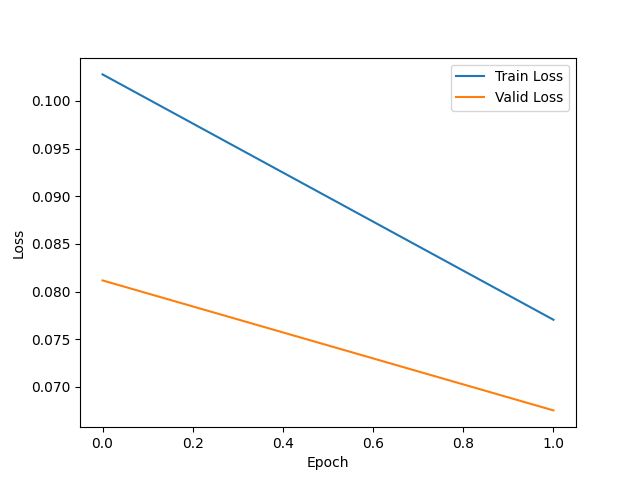
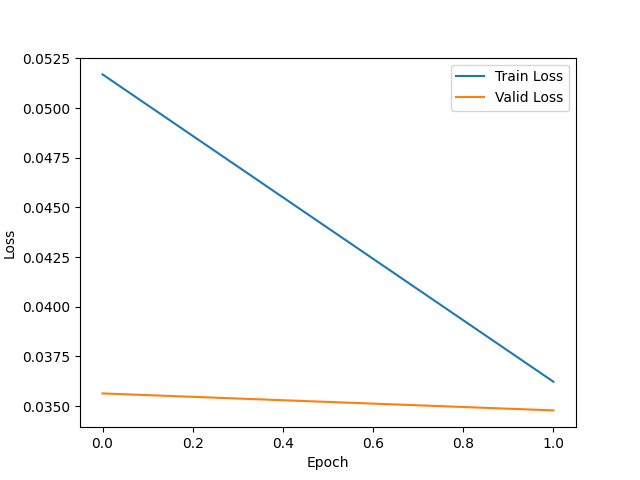
update 20240808

diff --git a/utils/learning/.ipynb_checkpoints/train_part-checkpoint.py b/utils/learning/.ipynb_checkpoints/train_part-checkpoint.py
@@ -16,8 +16,8 @@ from utils.data.load_data import create_data_loaders
 from utils.common.utils import save_reconstructions, ssim_loss
 from utils.common.loss_function import SSIMLoss
 #from utils.model.varnet_nafssr import VarNet
-from utils.model.promptmr import VarNet
-#from utils.model.varnet import VarNet
+# from utils.model.promptmr import VarNet
+from utils.model.varnet import VarNet
 import os
 
 class EarlyStopping:
@@ -142,37 +142,37 @@ def train(args):
     print('Current cuda device: ', torch.cuda.current_device())
 
     #for promptmr
-    model = VarNet(num_cascades= 10,
-        num_adj_slices= 1, #5
-        n_feat0 = 20, #48
-        feature_dim=[4, 8, 12],
-        prompt_dim=[2, 4, 8],
-        sens_n_feat0=10,
-        sens_feature_dim= [4, 8, 12],
-        sens_prompt_dim= [4, 8, 12],
-        len_prompt= [4, 4, 4],
-        prompt_size=[16, 8, 4],
-        n_enc_cab= [2, 2, 3],
-        n_dec_cab= [2, 2, 3],
-        n_skip_cab= [1, 1, 1],
-        n_bottleneck_cab= 1,
-        no_use_ca= False,
-        sens_len_prompt= None,
-        sens_prompt_size= None,
-        sens_n_enc_cab= None,
-        sens_n_dec_cab = None,
-        sens_n_skip_cab = None,
-        sens_n_bottleneck_cab= None,
-        sens_no_use_ca= None,
-        mask_center=True,
-        use_checkpoint=True,
-        low_mem=False,)
+#     model = VarNet(num_cascades= 10,
+#         num_adj_slices= 1, #5
+#         n_feat0 = 20, #48
+#         feature_dim=[4, 8, 12],
+#         prompt_dim=[2, 4, 8],
+#         sens_n_feat0=10,
+#         sens_feature_dim= [4, 8, 12],
+#         sens_prompt_dim= [4, 8, 12],
+#         len_prompt= [4, 4, 4],
+#         prompt_size=[16, 8, 4],
+#         n_enc_cab= [2, 2, 3],
+#         n_dec_cab= [2, 2, 3],
+#         n_skip_cab= [1, 1, 1],
+#         n_bottleneck_cab= 1,
+#         no_use_ca= False,
+#         sens_len_prompt= None,
+#         sens_prompt_size= None,
+#         sens_n_enc_cab= None,
+#         sens_n_dec_cab = None,
+#         sens_n_skip_cab = None,
+#         sens_n_bottleneck_cab= None,
+#         sens_no_use_ca= None,
+#         mask_center=True,
+#         use_checkpoint=True,
+#         low_mem=False,)
         
     
     
-    #model = VarNet(num_cascades=args.cascade, 
-    #               chans=args.chans, 
-    #               sens_chans=args.sens_chans)
+    model = VarNet(num_cascades=args.cascade, 
+                  chans=args.chans, 
+                  sens_chans=args.sens_chans)
     
     model.to(device=device)
 
@@ -195,7 +195,7 @@ def train(args):
     loss_type = SSIMLoss().to(device=device)
     optimizer = torch.optim.AdamW(model.parameters(), args.lr)
     scheduler = ReduceLROnPlateau(optimizer, 'min', factor=0.5, patience=1, verbose=True)
-    early_stopping = EarlyStopping(4, 0)
+    early_stopping = EarlyStopping(3, 0)
     train_losses = []
     valid_losses = []
     

diff --git a/utils/learning/train_part.py b/utils/learning/train_part.py
@@ -16,8 +16,8 @@ from utils.data.load_data import create_data_loaders
 from utils.common.utils import save_reconstructions, ssim_loss
 from utils.common.loss_function import SSIMLoss
 #from utils.model.varnet_nafssr import VarNet
-from utils.model.promptmr import VarNet
-#from utils.model.varnet import VarNet
+# from utils.model.promptmr import VarNet
+from utils.model.varnet import VarNet
 import os
 
 class EarlyStopping:
@@ -142,37 +142,37 @@ def train(args):
     print('Current cuda device: ', torch.cuda.current_device())
 
     #for promptmr
-    model = VarNet(num_cascades= 10,
-        num_adj_slices= 1, #5
-        n_feat0 = 20, #48
-        feature_dim=[4, 8, 12],
-        prompt_dim=[2, 4, 8],
-        sens_n_feat0=10,
-        sens_feature_dim= [4, 8, 12],
-        sens_prompt_dim= [4, 8, 12],
-        len_prompt= [4, 4, 4],
-        prompt_size=[16, 8, 4],
-        n_enc_cab= [2, 2, 3],
-        n_dec_cab= [2, 2, 3],
-        n_skip_cab= [1, 1, 1],
-        n_bottleneck_cab= 1,
-        no_use_ca= False,
-        sens_len_prompt= None,
-        sens_prompt_size= None,
-        sens_n_enc_cab= None,
-        sens_n_dec_cab = None,
-        sens_n_skip_cab = None,
-        sens_n_bottleneck_cab= None,
-        sens_no_use_ca= None,
-        mask_center=True,
-        use_checkpoint=True,
-        low_mem=False,)
+#     model = VarNet(num_cascades= 10,
+#         num_adj_slices= 1, #5
+#         n_feat0 = 20, #48
+#         feature_dim=[4, 8, 12],
+#         prompt_dim=[2, 4, 8],
+#         sens_n_feat0=10,
+#         sens_feature_dim= [4, 8, 12],
+#         sens_prompt_dim= [4, 8, 12],
+#         len_prompt= [4, 4, 4],
+#         prompt_size=[16, 8, 4],
+#         n_enc_cab= [2, 2, 3],
+#         n_dec_cab= [2, 2, 3],
+#         n_skip_cab= [1, 1, 1],
+#         n_bottleneck_cab= 1,
+#         no_use_ca= False,
+#         sens_len_prompt= None,
+#         sens_prompt_size= None,
+#         sens_n_enc_cab= None,
+#         sens_n_dec_cab = None,
+#         sens_n_skip_cab = None,
+#         sens_n_bottleneck_cab= None,
+#         sens_no_use_ca= None,
+#         mask_center=True,
+#         use_checkpoint=True,
+#         low_mem=False,)
         
     
     
-    #model = VarNet(num_cascades=args.cascade, 
-    #               chans=args.chans, 
-    #               sens_chans=args.sens_chans)
+    model = VarNet(num_cascades=args.cascade, 
+                  chans=args.chans, 
+                  sens_chans=args.sens_chans)
     
     model.to(device=device)
 
@@ -195,7 +195,7 @@ def train(args):
     loss_type = SSIMLoss().to(device=device)
     optimizer = torch.optim.AdamW(model.parameters(), args.lr)
     scheduler = ReduceLROnPlateau(optimizer, 'min', factor=0.5, patience=1, verbose=True)
-    early_stopping = EarlyStopping(4, 0)
+    early_stopping = EarlyStopping(3, 0)
     train_losses = []
     valid_losses = []
     

diff --git a/utils/learning/.ipynb_checkpoints/test_part-checkpoint.py b/utils/learning/.ipynb_checkpoints/test_part-checkpoint.py
@@ -39,9 +39,36 @@ def forward(args):
     torch.cuda.set_device(device)
     print ('Current cuda device ', torch.cuda.current_device())
 
-    model = VarNet(num_cascades=args.cascade, 
-                   chans=args.chans, 
-                   sens_chans=args.sens_chans)
+#     model = VarNet(num_cascades=args.cascade, 
+#                    chans=args.chans, 
+#                    sens_chans=args.sens_chans)
+
+    model = VarNet(num_cascades= 10,
+        num_adj_slices= 1, #5
+        n_feat0 = 20, #48
+        feature_dim=[4, 8, 12],
+        prompt_dim=[2, 4, 8],
+        sens_n_feat0=10,
+        sens_feature_dim= [4, 8, 12],
+        sens_prompt_dim= [4, 8, 12],
+        len_prompt= [4, 4, 4],
+        prompt_size=[16, 8, 4],
+        n_enc_cab= [2, 2, 3],
+        n_dec_cab= [2, 2, 3],
+        n_skip_cab= [1, 1, 1],
+        n_bottleneck_cab= 1,
+        no_use_ca= False,
+        sens_len_prompt= None,
+        sens_prompt_size= None,
+        sens_n_enc_cab= None,
+        sens_n_dec_cab = None,
+        sens_n_skip_cab = None,
+        sens_n_bottleneck_cab= None,
+        sens_no_use_ca= None,
+        mask_center=True,
+        use_checkpoint=True,
+        low_mem=False,)
+    
     model.to(device=device)
     
     checkpoint = torch.load(args.exp_dir / 'best_model.pt', map_location='cpu')

diff --git a/utils/learning/test_part.py b/utils/learning/test_part.py
@@ -39,9 +39,36 @@ def forward(args):
     torch.cuda.set_device(device)
     print ('Current cuda device ', torch.cuda.current_device())
 
-    model = VarNet(num_cascades=args.cascade, 
-                   chans=args.chans, 
-                   sens_chans=args.sens_chans)
+#     model = VarNet(num_cascades=args.cascade, 
+#                    chans=args.chans, 
+#                    sens_chans=args.sens_chans)
+
+    model = VarNet(num_cascades= 10,
+        num_adj_slices= 1, #5
+        n_feat0 = 20, #48
+        feature_dim=[4, 8, 12],
+        prompt_dim=[2, 4, 8],
+        sens_n_feat0=10,
+        sens_feature_dim= [4, 8, 12],
+        sens_prompt_dim= [4, 8, 12],
+        len_prompt= [4, 4, 4],
+        prompt_size=[16, 8, 4],
+        n_enc_cab= [2, 2, 3],
+        n_dec_cab= [2, 2, 3],
+        n_skip_cab= [1, 1, 1],
+        n_bottleneck_cab= 1,
+        no_use_ca= False,
+        sens_len_prompt= None,
+        sens_prompt_size= None,
+        sens_n_enc_cab= None,
+        sens_n_dec_cab = None,
+        sens_n_skip_cab = None,
+        sens_n_bottleneck_cab= None,
+        sens_no_use_ca= None,
+        mask_center=True,
+        use_checkpoint=True,
+        low_mem=False,)
+    
     model.to(device=device)
     
     checkpoint = torch.load(args.exp_dir / 'best_model.pt', map_location='cpu')

diff --git a/utils/model/.ipynb_checkpoints/varnet-checkpoint.py b/utils/model/.ipynb_checkpoints/varnet-checkpoint.py
@@ -257,8 +257,8 @@ class VarNet(nn.Module):
 #         masked_kspace = masked_kspace.unsqueeze(1)
         grappa = grappa.unsqueeze(1)
         result = torch.cat((result, grappa, result), dim = 1)
-        result = self.normnaf(result)
-#         result = self.kbnet(result)
+#         result = self.normnaf(result)
+        result = self.kbnet(result)
         result = result.mean(dim=1)
         return result
 

diff --git a/utils/learning/.ipynb_checkpoints/train_part_extended-checkpoint.py b/utils/learning/.ipynb_checkpoints/train_part_extended-checkpoint.py
@@ -176,7 +176,7 @@ def train(args):
     loss_type = SSIMLoss().to(device=device)
     optimizer = torch.optim.AdamW(model.parameters(), args.lr)
     scheduler = ReduceLROnPlateau(optimizer, 'min', factor=0.5, patience=1, verbose=True)
-    early_stopping = EarlyStopping(2, 0)
+    early_stopping = EarlyStopping(3, 0)
     train_losses = []
     valid_losses = []
     

diff --git a/utils/learning/train_part_extended.py b/utils/learning/train_part_extended.py
@@ -176,7 +176,7 @@ def train(args):
     loss_type = SSIMLoss().to(device=device)
     optimizer = torch.optim.AdamW(model.parameters(), args.lr)
     scheduler = ReduceLROnPlateau(optimizer, 'min', factor=0.5, patience=1, verbose=True)
-    early_stopping = EarlyStopping(2, 0)
+    early_stopping = EarlyStopping(3, 0)
     train_losses = []
     valid_losses = []
     
